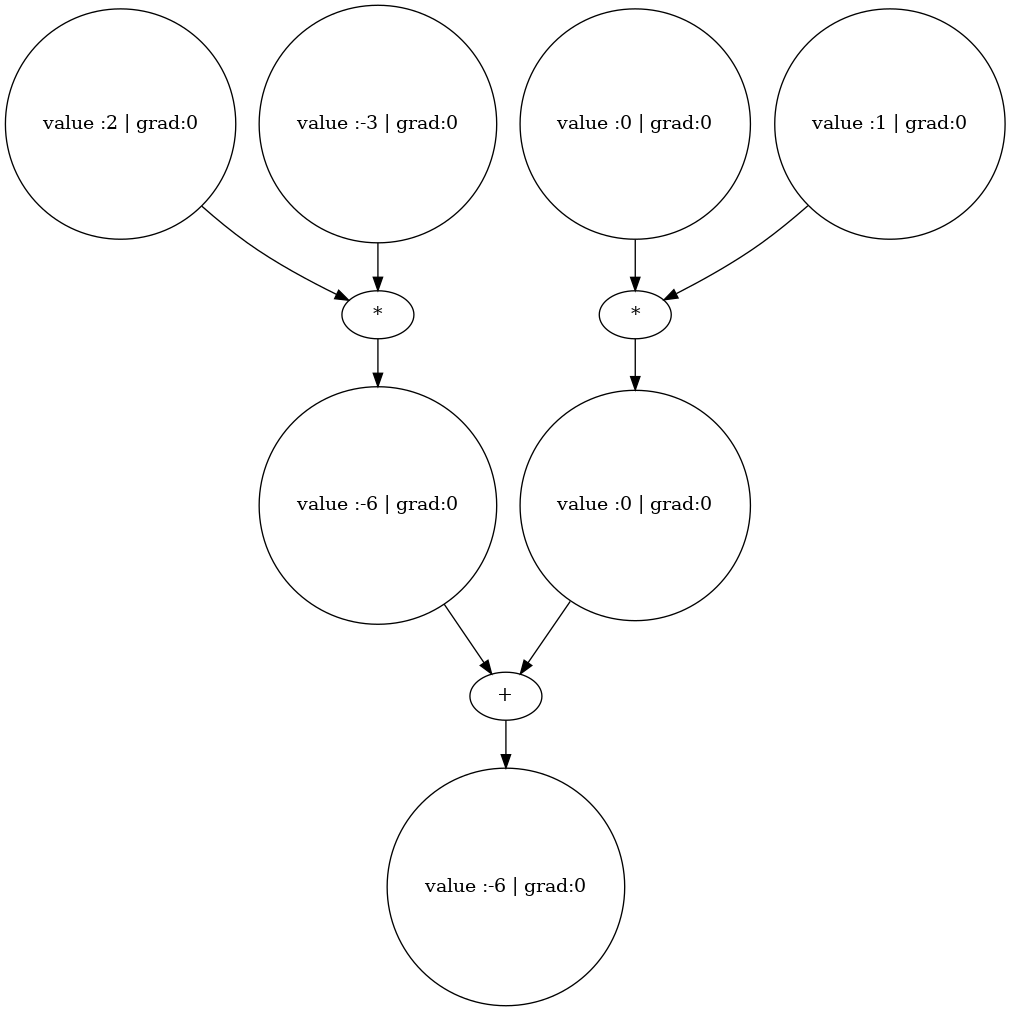
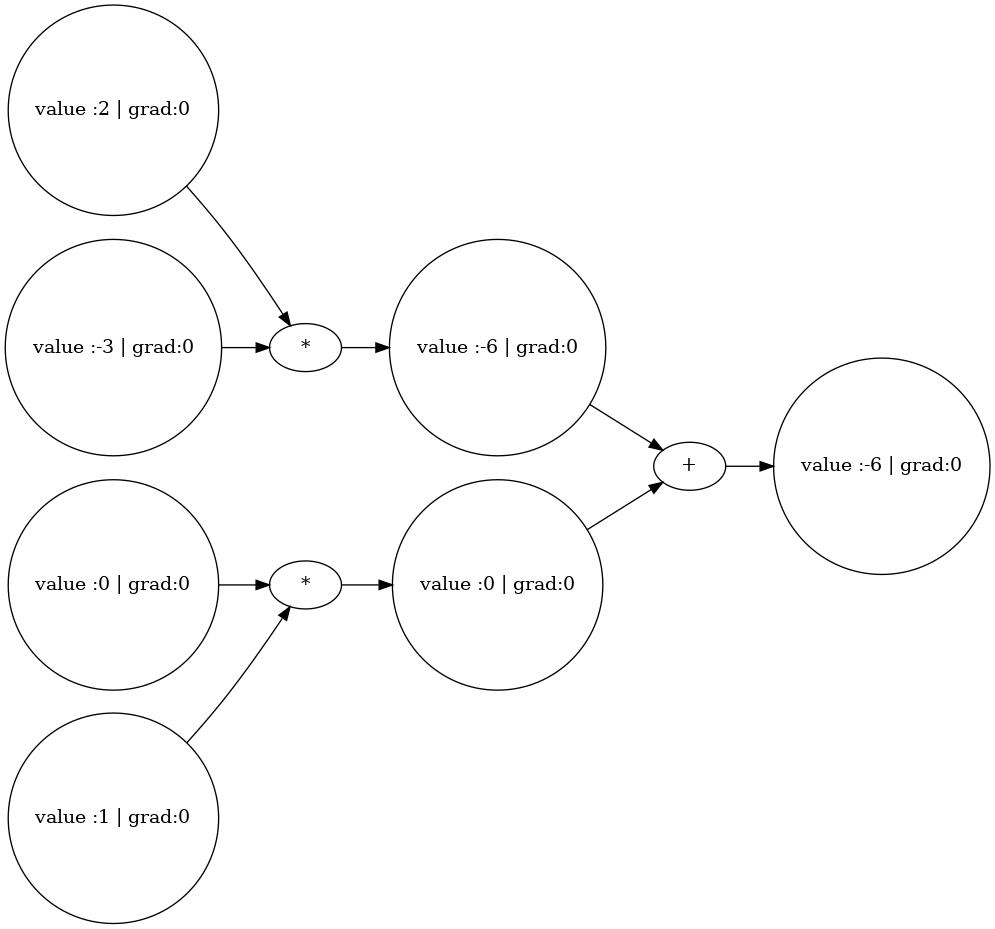
switch to l2r

diff --git a/src/graph.cpp b/src/graph.cpp
@@ -21,13 +21,17 @@ void Graph::visualize()
         char top[256];
         snprintf(top, sizeof(top), "digraph {\n");
         fputs(top, pipe);
+        fputs("rankdir=LR;\n", pipe);
         fputs(top, stdout);
         for (auto node : nodes)
         {
             char label[256];
             std::snprintf(label, sizeof(label),
-                          "%d[shape=circle, style=solid, label=\"value :%d | grad:%d\"];\n",
+                          "%d[shape=circle, fixedsize=false, width=0.6, style=solid, label=\"value :%d | grad:%d\"];\n",
                           node->id, static_cast<int>(node->getValue()), static_cast<int>(node->getGrad()));
+            // std::snprintf(label, sizeof(label),
+            //               "%d[shape=circle, style=solid, label=\"value :%d | grad:%d\"];\n",
+            //               node->id, static_cast<int>(node->getValue()), static_cast<int>(node->getGrad()));
             fputs(label, pipe);
             fputs(label, stdout);
 
